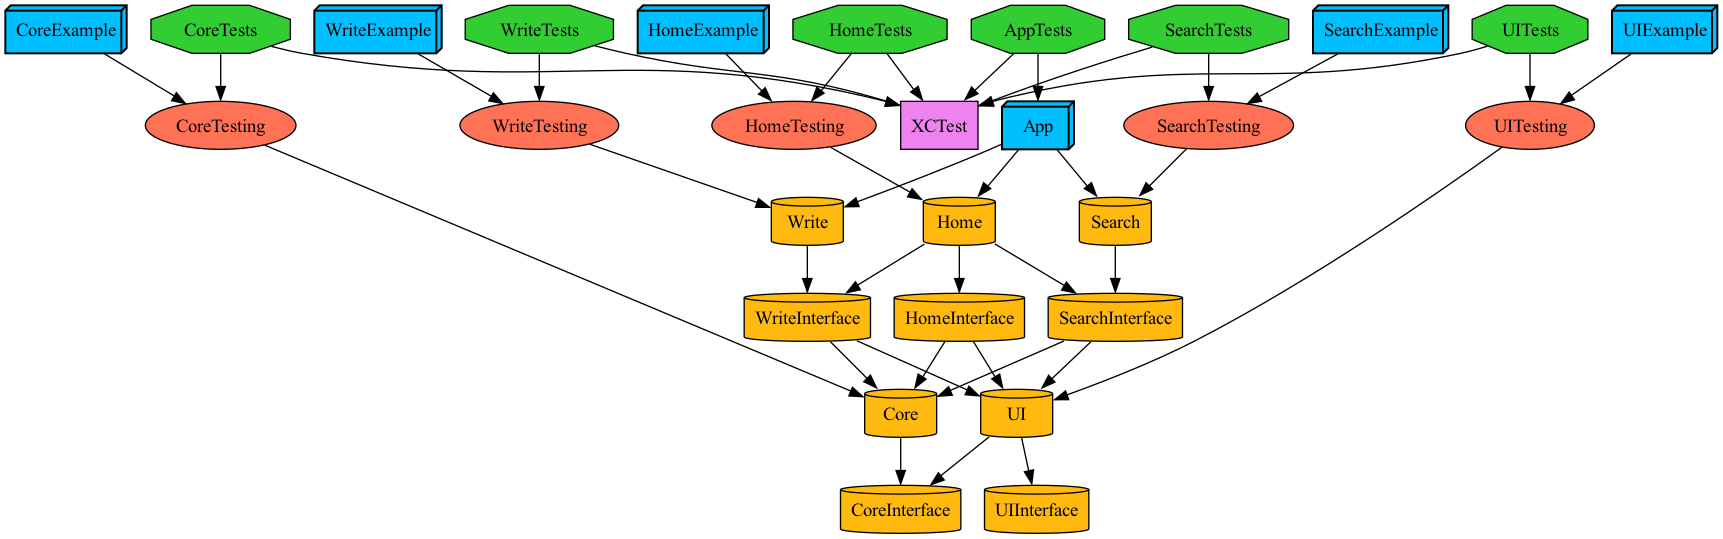
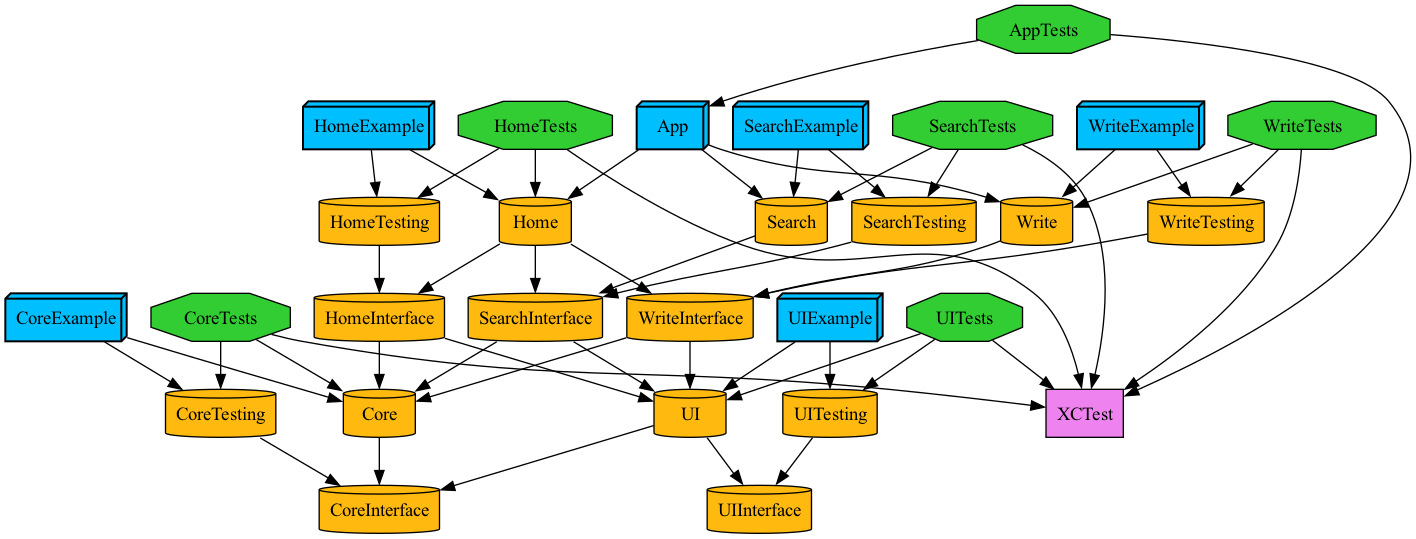
edit target dependency

diff --git a/Tuist/ProjectDescriptionHelpers/Project+Templates.swift b/Tuist/ProjectDescriptionHelpers/Project+Templates.swift
@@ -63,6 +63,7 @@ extension Project {
                    sources: ["Example/**"],
                    resources: ["Example/Resources/**"],
                    dependencies: [
+                    .target(name: "\(name)"),
                     .target(name: "\(name)Testing")
                    ]
                   ),
@@ -74,6 +75,7 @@ extension Project {
                    sources: ["Tests/**"],
                    resources: ["Tests/Resources/**"],
                    dependencies: [
+                    .target(name: "\(name)"),
                     .target(name: "\(name)Testing"),
                     .xctest
                    ],
@@ -86,7 +88,7 @@ extension Project {
                    infoPlist: .default,
                    sources: ["Testing/**"],
                    dependencies: [
-                    .target(name: "\(name)")
+                    .target(name: "\(name)Interface")
                    ]
                   ),
             Target(name: "\(name)",
@@ -125,6 +127,7 @@ extension Project {
                    sources: ["Example/**"],
                    resources: ["Example/Resources/**"],
                    dependencies: [
+                    .target(name: "\(name)"),
                     .target(name: "\(name)Testing")
                    ]
                   ),
@@ -136,6 +139,7 @@ extension Project {
                    sources: ["Tests/**"],
                    resources: ["Tests/Resources/**"],
                    dependencies: [
+                    .target(name: "\(name)"),
                     .target(name: "\(name)Testing"),
                     .xctest
                    ],
@@ -148,7 +152,7 @@ extension Project {
                    infoPlist: .default,
                    sources: ["Testing/**"],
                    dependencies: [
-                    .target(name: "\(name)")
+                    .target(name: "\(name)Interface")
                    ]
                   ),
             Target(name: "\(name)",
@@ -188,6 +192,7 @@ extension Project {
                    sources: ["Example/**"],
                    resources: ["Example/Resources/**"],
                    dependencies: [
+                    .target(name: "\(name)"),
                     .target(name: "\(name)Testing")
                    ]
                   ),
@@ -199,6 +204,7 @@ extension Project {
                    sources: ["Tests/**"],
                    resources: ["Tests/Resources/**"],
                    dependencies: [
+                    .target(name: "\(name)"),
                     .target(name: "\(name)Testing"),
                     .xctest
                    ],
@@ -211,7 +217,7 @@ extension Project {
                    infoPlist: .default,
                    sources: ["Testing/**"],
                    dependencies: [
-                    .target(name: "\(name)")
+                    .target(name: "\(name)Interface")
                    ]
                   ),
             Target(name: "\(name)",

diff --git a/Tuist/Templates/app/app.swift b/Tuist/Templates/app/app.swift
@@ -23,7 +23,7 @@ private let template = Template(
         .string(path: "Projects/\(nameAttribute)/Tests/\(nameAttribute)Tests.swift", contents:
                 """
                 import XCTest
-                @testable import \(nameAttribute)Testing
+                @testable import \(nameAttribute)
 
                 final class \(nameAttribute)Tests: XCTestCase {
 

diff --git a/Projects/App/Tests/AppTests.swift b/Projects/App/Tests/AppTests.swift
@@ -1,5 +1,5 @@
 import XCTest
-@testable import AppTesting
+@testable import App
 
 final class AppTests: XCTestCase {
 
